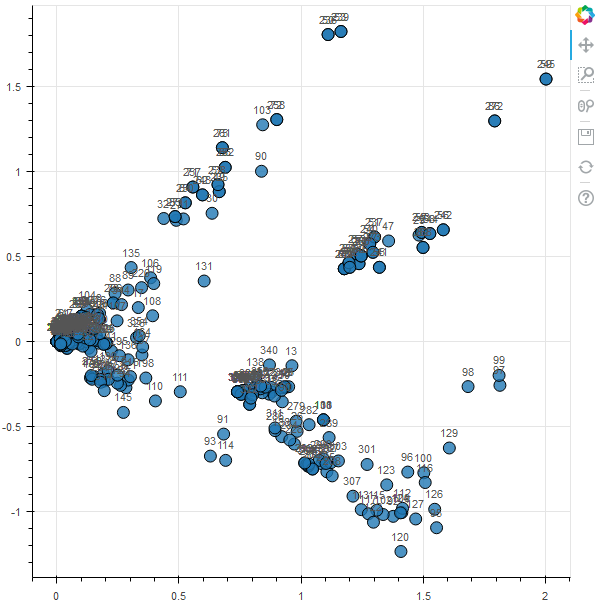
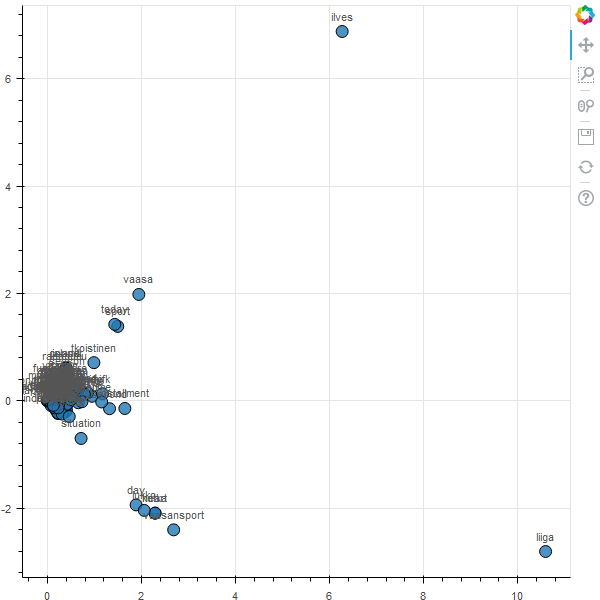
Plot topics Show named labels export plot to .png only Finland icehockey league

diff --git a/TopicModeling.py b/TopicModeling.py
@@ -15,23 +15,28 @@ from gensim import similarities
 from sklearn.decomposition import NMF, LatentDirichletAllocation, TruncatedSVD
 from sklearn.feature_extraction.text import CountVectorizer
 
-dataset_name = 'Finland#liigaUsersIDData'
-# import dataset
-df = pd.read_csv('./data/' + dataset_name + '.csv', header=0,
-                 encoding='cp1252')
-data = []
-for index, row in df.iterrows():
-    if pd.isnull(row['translated']):
-        continue
-    else:
-        data.append(row['translated'])
+savepath ='./data/'
 
-# Remove retweets
-data = [x for x in data if x[:2] != 'RT']
+dataset_names = ['Finland#liigaUsersIDData']
 
-data = list(map(lambda x: re.sub(r'http\S+', '', x), data))
-for i in data:
-    print(i)
+def extract_tweets_dataset(dataset_name):
+    # import dataset
+    df = pd.read_csv('./data/' + dataset_name + '.csv', header=0,
+                    encoding='cp1252')
+    data = []
+    for index, row in df.iterrows():
+        if pd.isnull(row['translated']):
+            continue
+        else:
+            data.append(row['translated'])
+
+    # Remove retweets
+    data = [x for x in data if x[:2] != 'RT']
+
+    data = list(map(lambda x: re.sub(r'http\S+', '', x), data))
+    for i in data:
+        print(i)
+
 NUM_TOPICS = 20
 STOPWORDS = stopwords.words('english')
  
@@ -71,7 +76,7 @@ for idx in range(NUM_TOPICS):
  
 print("=" * 20)
  
-text = 'league standings'
+""" text = 'league standings'
 bow = dictionary.doc2bow(clean_text(text))
 lda_index = similarities.MatrixSimilarity(lda_model[corpus])
  
@@ -86,7 +91,7 @@ print(similarities[:10])
  
 # Let's see what's the most similar document
 document_id, similarity = similarities[0]
-print(data[document_id][:1000])
+print(data[document_id][:1000]) """
 
 vectorizer = CountVectorizer(min_df=5, max_df=0.9, 
                              stop_words='english', lowercase=True, 
@@ -94,11 +99,11 @@ vectorizer = CountVectorizer(min_df=5, max_df=0.9,
 data_vectorized = vectorizer.fit_transform(data)
 
 svd = TruncatedSVD(n_components=2)
-documents_2d = svd.fit_transform(data_vectorized)
+documents_2d = svd.fit_transform(data_vectorized.T)
  
 df = pd.DataFrame(columns=['x', 'y', 'document'])
 print(df['document'].head(5 ))
-df['x'], df['y'], df['document'] = documents_2d[:,0], documents_2d[:,1], range(len(data))
+df['x'], df['y'], df['document'] = documents_2d[:,0], documents_2d[:,1], vectorizer.get_feature_names()
  
 source = ColumnDataSource(ColumnDataSource.from_df(df))
 labels = LabelSet(x="x", y="y", text="document", y_offset=8,
@@ -108,6 +113,6 @@ labels = LabelSet(x="x", y="y", text="document", y_offset=8,
 plot = figure(plot_width=600, plot_height=600)
 plot.circle("x", "y", size=12, source=source, line_color="black", fill_alpha=0.8)
 plot.add_layout(labels)
-export_png(plot, filename='topics_Liiga.png')
+export_png(plot, filename=savepath + 'topics_Liiga.png')
 
  
